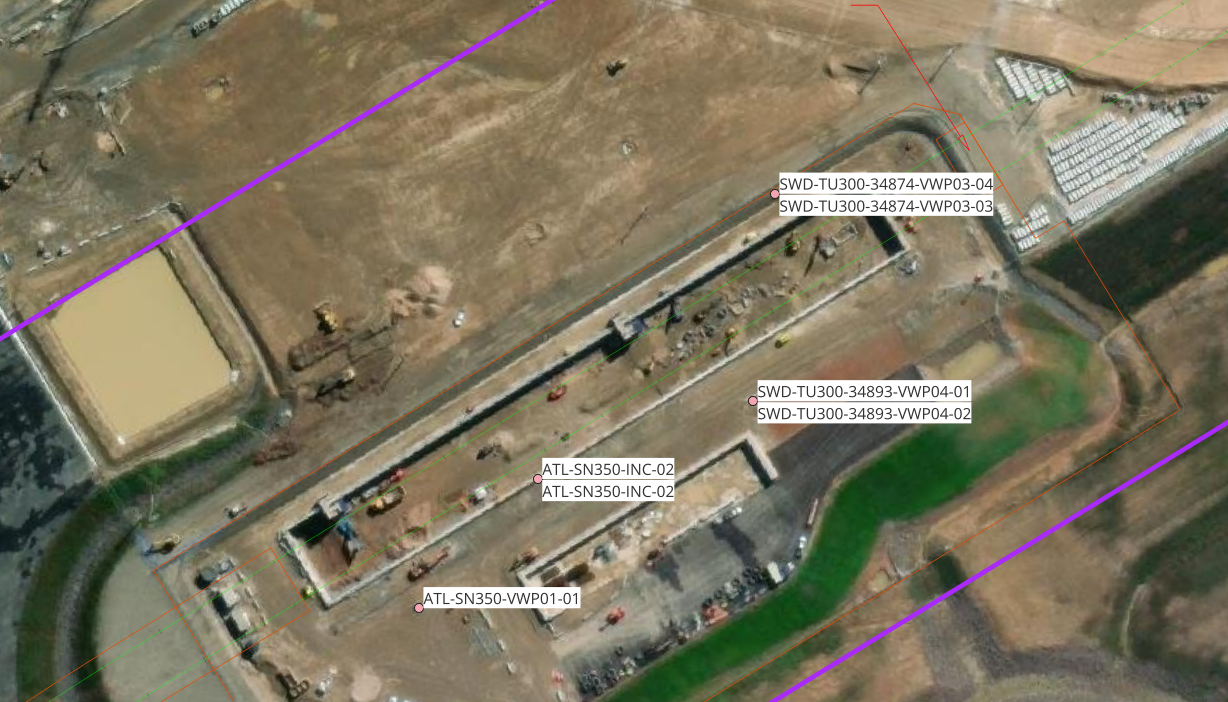
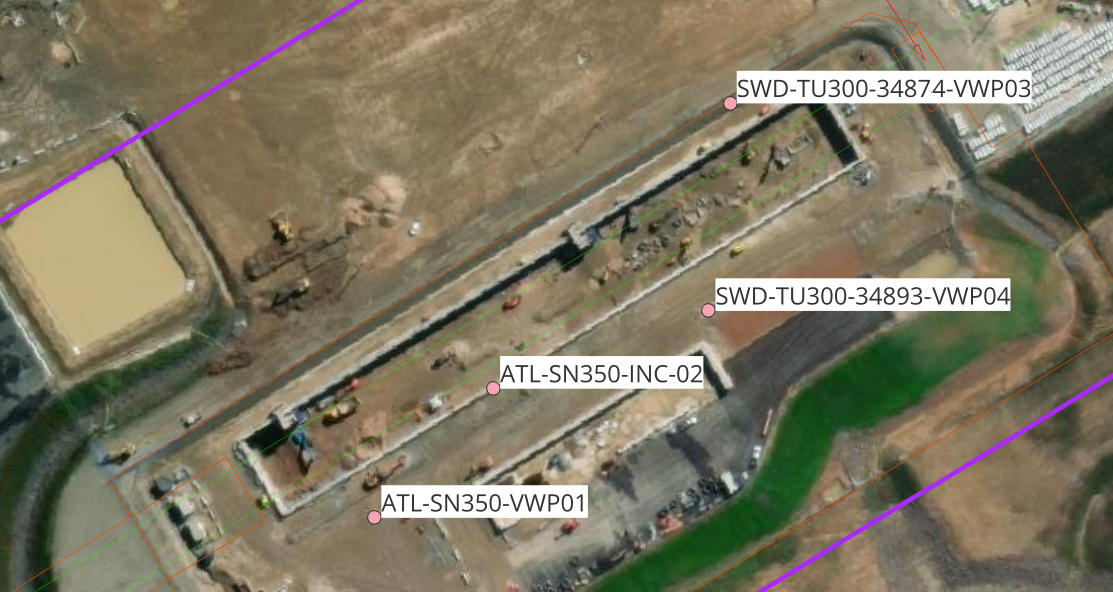
Update images and point IDs; add per-point comment fields and remove general comment field

diff --git a/index.html b/index.html
@@ -100,6 +100,11 @@
   display: flex;
   gap: 15px;
  }
+ input[type="text"] {
+  width: 100%;
+  padding: 4px 6px;
+  box-sizing: border-box;
+ }
 </style>
 </head>
 <body>
@@ -114,18 +119,19 @@
   <label for="date">Date</label>
   <input type="date" id="date" name="date" required>
 
-  <!-- Area sections -->
+  <!-- AEC section -->
   <details>
    <summary>AEC</summary>
    <img src="AEC.png" alt="AEC area" class="area-img">
    <table>
-    <tr><th>Point</th><th>Status</th></tr>
+    <tr><th>Point</th><th>Status</th><th>Comments</th></tr>
     <tr>
      <td>AEC-BTM-SN450-INC-09</td>
      <td class="radio-group">
       <label><input type="radio" name="AEC-BTM-SN450-INC-09" value="Read"> Read</label>
       <label><input type="radio" name="AEC-BTM-SN450-INC-09" value="Not Read" checked> Not Read</label>
      </td>
+     <td><input type="text" name="AEC-BTM-SN450-INC-09-comment" placeholder="Comment"></td>
     </tr>
     <tr>
      <td>AEC-BTM-SN450-INC-03</td>
@@ -133,6 +139,7 @@
       <label><input type="radio" name="AEC-BTM-SN450-INC-03" value="Read"> Read</label>
       <label><input type="radio" name="AEC-BTM-SN450-INC-03" value="Not Read" checked> Not Read</label>
      </td>
+     <td><input type="text" name="AEC-BTM-SN450-INC-03-comment" placeholder="Comment"></td>
     </tr>
     <tr>
      <td>SWD-TU400-39287-VWP01</td>
@@ -140,6 +147,7 @@
       <label><input type="radio" name="SWD-TU400-39287-VWP01" value="Read"> Read</label>
       <label><input type="radio" name="SWD-TU400-39287-VWP01" value="Not Read" checked> Not Read</label>
      </td>
+     <td><input type="text" name="SWD-TU400-39287-VWP01-comment" placeholder="Comment"></td>
     </tr>
     <tr>
      <td>SWD-TU400-39340-VWP02</td>
@@ -147,6 +155,7 @@
       <label><input type="radio" name="SWD-TU400-39340-VWP02" value="Read"> Read</label>
       <label><input type="radio" name="SWD-TU400-39340-VWP02" value="Not Read" checked> Not Read</label>
      </td>
+     <td><input type="text" name="SWD-TU400-39340-VWP02-comment" placeholder="Comment"></td>
     </tr>
     <tr>
      <td>SWD-TU400-39532-VWP03</td>
@@ -154,6 +163,7 @@
       <label><input type="radio" name="SWD-TU400-39532-VWP03" value="Read"> Read</label>
       <label><input type="radio" name="SWD-TU400-39532-VWP03" value="Not Read" checked> Not Read</label>
      </td>
+     <td><input type="text" name="SWD-TU400-39532-VWP03-comment" placeholder="Comment"></td>
     </tr>
     <tr>
      <td>AEC-SN450-WW-VWP06</td>
@@ -161,6 +171,7 @@
       <label><input type="radio" name="AEC-SN450-WW-VWP06" value="Read"> Read</label>
       <label><input type="radio" name="AEC-SN450-WW-VWP06" value="Not Read" checked> Not Read</label>
      </td>
+     <td><input type="text" name="AEC-SN450-WW-VWP06-comment" placeholder="Comment"></td>
     </tr>
     <tr>
      <td>AEC-SN450-INC-06</td>
@@ -168,21 +179,24 @@
       <label><input type="radio" name="AEC-SN450-INC-06" value="Read"> Read</label>
       <label><input type="radio" name="AEC-SN450-INC-06" value="Not Read" checked> Not Read</label>
      </td>
+     <td><input type="text" name="AEC-SN450-INC-06-comment" placeholder="Comment"></td>
     </tr>
    </table>
   </details>
 
+  <!-- APDS section -->
   <details>
    <summary>APDS</summary>
    <img src="APDS.png" alt="APDS area" class="area-img">
    <table>
-    <tr><th>Point</th><th>Status</th></tr>
+    <tr><th>Point</th><th>Status</th><th>Comments</th></tr>
     <tr>
      <td>ABP-TD300-VWP01</td>
      <td class="radio-group">
       <label><input type="radio" name="ABP-TD300-VWP01" value="Read"> Read</label>
       <label><input type="radio" name="ABP-TD300-VWP01" value="Not Read" checked> Not Read</label>
      </td>
+     <td><input type="text" name="ABP-TD300-VWP01-comment" placeholder="Comment"></td>
     </tr>
     <tr>
      <td>ABP-TD300-VWP02</td>
@@ -190,6 +204,7 @@
       <label><input type="radio" name="ABP-TD300-VWP02" value="Read"> Read</label>
       <label><input type="radio" name="ABP-TD300-VWP02" value="Not Read" checked> Not Read</label>
      </td>
+     <td><input type="text" name="ABP-TD300-VWP02-comment" placeholder="Comment"></td>
     </tr>
     <tr>
      <td>ABP-TD300-VWP03</td>
@@ -197,6 +212,7 @@
       <label><input type="radio" name="ABP-TD300-VWP03" value="Read"> Read</label>
       <label><input type="radio" name="ABP-TD300-VWP03" value="Not Read" checked> Not Read</label>
      </td>
+     <td><input type="text" name="ABP-TD300-VWP03-comment" placeholder="Comment"></td>
     </tr>
     <tr>
      <td>ABP-TD300-VWP04</td>
@@ -204,42 +220,32 @@
       <label><input type="radio" name="ABP-TD300-VWP04" value="Read"> Read</label>
       <label><input type="radio" name="ABP-TD300-VWP04" value="Not Read" checked> Not Read</label>
      </td>
+     <td><input type="text" name="ABP-TD300-VWP04-comment" placeholder="Comment"></td>
     </tr>
    </table>
   </details>
 
+  <!-- ATL section updated -->
   <details>
    <summary>ATL</summary>
    <img src="ATL.png" alt="ATL area" class="area-img">
    <table>
-    <tr><th>Point</th><th>Status</th></tr>
+    <tr><th>Point</th><th>Status</th><th>Comments</th></tr>
     <tr>
-     <td>SWD-TU300-34874-VWP03-04</td>
+     <td>SWD-TU300-34874-VWP03</td>
      <td class="radio-group">
-      <label><input type="radio" name="SWD-TU300-34874-VWP03-04" value="Read"> Read</label>
-      <label><input type="radio" name="SWD-TU300-34874-VWP03-04" value="Not Read" checked> Not Read</label>
+      <label><input type="radio" name="SWD-TU300-34874-VWP03" value="Read"> Read</label>
+      <label><input type="radio" name="SWD-TU300-34874-VWP03" value="Not Read" checked> Not Read</label>
      </td>
+     <td><input type="text" name="SWD-TU300-34874-VWP03-comment" placeholder="Comment"></td>
     </tr>
     <tr>
-     <td>SWD-TU300-34874-VWP03-03</td>
+     <td>SWD-TU300-34893-VWP04</td>
      <td class="radio-group">
-      <label><input type="radio" name="SWD-TU300-34874-VWP03-03" value="Read"> Read</label>
-      <label><input type="radio" name="SWD-TU300-34874-VWP03-03" value="Not Read" checked> Not Read</label>
+      <label><input type="radio" name="SWD-TU300-34893-VWP04" value="Read"> Read</label>
+      <label><input type="radio" name="SWD-TU300-34893-VWP04" value="Not Read" checked> Not Read</label>
      </td>
-    </tr>
-    <tr>
-     <td>SWD-TU300-34893-VWP04-01</td>
-     <td class="radio-group">
-      <label><input type="radio" name="SWD-TU300-34893-VWP04-01" value="Read"> Read</label>
-      <label><input type="radio" name="SWD-TU300-34893-VWP04-01" value="Not Read" checked> Not Read</label>
-     </td>
-    </tr>
-    <tr>
-     <td>SWD-TU300-34893-VWP04-02</td>
-     <td class="radio-group">
-      <label><input type="radio" name="SWD-TU300-34893-VWP04-02" value="Read"> Read</label>
-      <label><input type="radio" name="SWD-TU300-34893-VWP04-02" value="Not Read" checked> Not Read</label>
-     </td>
+     <td><input type="text" name="SWD-TU300-34893-VWP04-comment" placeholder="Comment"></td>
     </tr>
     <tr>
      <td>ATL-SN350-INC-02</td>
@@ -247,28 +253,32 @@
       <label><input type="radio" name="ATL-SN350-INC-02" value="Read"> Read</label>
       <label><input type="radio" name="ATL-SN350-INC-02" value="Not Read" checked> Not Read</label>
      </td>
+     <td><input type="text" name="ATL-SN350-INC-02-comment" placeholder="Comment"></td>
     </tr>
     <tr>
-     <td>ATL-SN350-VWP01-01</td>
+     <td>ATL-SN350-VWP01</td>
      <td class="radio-group">
-      <label><input type="radio" name="ATL-SN350-VWP01-01" value="Read"> Read</label>
-      <label><input type="radio" name="ATL-SN350-VWP01-01" value="Not Read" checked> Not Read</label>
+      <label><input type="radio" name="ATL-SN350-VWP01" value="Read"> Read</label>
+      <label><input type="radio" name="ATL-SN350-VWP01" value="Not Read" checked> Not Read</label>
      </td>
+     <td><input type="text" name="ATL-SN350-VWP01-comment" placeholder="Comment"></td>
     </tr>
    </table>
   </details>
 
+  <!-- STM section updated -->
   <details>
    <summary>STM</summary>
    <img src="STM.png" alt="STM area" class="area-img">
    <table>
-    <tr><th>Point</th><th>Status</th></tr>
+    <tr><th>Point</th><th>Status</th><th>Comments</th></tr>
     <tr>
      <td>SWD-TU100-17700-INC04</td>
      <td class="radio-group">
       <label><input type="radio" name="SWD-TU100-17700-INC04" value="Read"> Read</label>
       <label><input type="radio" name="SWD-TU100-17700-INC04" value="Not Read" checked> Not Read</label>
      </td>
+     <td><input type="text" name="SWD-TU100-17700-INC04-comment" placeholder="Comment"></td>
     </tr>
     <tr>
      <td>SWD-TU100-17720-VWP04</td>
@@ -276,6 +286,7 @@
       <label><input type="radio" name="SWD-TU100-17720-VWP04" value="Read"> Read</label>
       <label><input type="radio" name="SWD-TU100-17720-VWP04" value="Not Read" checked> Not Read</label>
      </td>
+     <td><input type="text" name="SWD-TU100-17720-VWP04-comment" placeholder="Comment"></td>
     </tr>
     <tr>
      <td>STM-SN100-INC-13</td>
@@ -283,13 +294,7 @@
       <label><input type="radio" name="STM-SN100-INC-13" value="Read"> Read</label>
       <label><input type="radio" name="STM-SN100-INC-13" value="Not Read" checked> Not Read</label>
      </td>
-    </tr>
-    <tr>
-     <td>STM-SN100-INC-02</td>
-     <td class="radio-group">
-      <label><input type="radio" name="STM-SN100-INC-02" value="Read"> Read</label>
-      <label><input type="radio" name="STM-SN100-INC-02" value="Not Read" checked> Not Read</label>
-     </td>
+     <td><input type="text" name="STM-SN100-INC-13-comment" placeholder="Comment"></td>
     </tr>
     <tr>
      <td>STM-SN100-INC-06</td>
@@ -297,13 +302,15 @@
       <label><input type="radio" name="STM-SN100-INC-06" value="Read"> Read</label>
       <label><input type="radio" name="STM-SN100-INC-06" value="Not Read" checked> Not Read</label>
      </td>
+     <td><input type="text" name="STM-SN100-INC-06-comment" placeholder="Comment"></td>
     </tr>
     <tr>
-     <td>STM-SN100-INC-11</td>
+     <td>STM-SN100-INC-02</td>
      <td class="radio-group">
-      <label><input type="radio" name="STM-SN100-INC-11" value="Read"> Read</label>
-      <label><input type="radio" name="STM-SN100-INC-11" value="Not Read" checked> Not Read</label>
+      <label><input type="radio" name="STM-SN100-INC-02" value="Read"> Read</label>
+      <label><input type="radio" name="STM-SN100-INC-02" value="Not Read" checked> Not Read</label>
      </td>
+     <td><input type="text" name="STM-SN100-INC-02-comment" placeholder="Comment"></td>
     </tr>
     <tr>
      <td>STM-SN100-INC-12</td>
@@ -311,56 +318,64 @@
       <label><input type="radio" name="STM-SN100-INC-12" value="Read"> Read</label>
       <label><input type="radio" name="STM-SN100-INC-12" value="Not Read" checked> Not Read</label>
      </td>
+     <td><input type="text" name="STM-SN100-INC-12-comment" placeholder="Comment"></td>
     </tr>
     <tr>
-     <td>SWD-TU100-17275-VWP01-A</td>
+     <td>STM-SN100-INC-08</td>
      <td class="radio-group">
-      <label><input type="radio" name="SWD-TU100-17275-VWP01-A" value="Read"> Read</label>
-      <label><input type="radio" name="SWD-TU100-17275-VWP01-A" value="Not Read" checked> Not Read</label>
+      <label><input type="radio" name="STM-SN100-INC-08" value="Read"> Read</label>
+      <label><input type="radio" name="STM-SN100-INC-08" value="Not Read" checked> Not Read</label>
      </td>
+     <td><input type="text" name="STM-SN100-INC-08-comment" placeholder="Comment"></td>
     </tr>
     <tr>
-     <td>SWD-TU100-17275-VWP01-B</td>
+     <td>STM-SN100-INC-11</td>
      <td class="radio-group">
-      <label><input type="radio" name="SWD-TU100-17275-VWP01-B" value="Read"> Read</label>
-      <label><input type="radio" name="SWD-TU100-17275-VWP01-B" value="Not Read" checked> Not Read</label>
+      <label><input type="radio" name="STM-SN100-INC-11" value="Read"> Read</label>
+      <label><input type="radio" name="STM-SN100-INC-11" value="Not Read" checked> Not Read</label>
      </td>
+     <td><input type="text" name="STM-SN100-INC-11-comment" placeholder="Comment"></td>
     </tr>
     <tr>
-     <td>SWD-TU100-17443-VWP03-A</td>
+     <td>SWD-TU100-17443-VWP03</td>
      <td class="radio-group">
-      <label><input type="radio" name="SWD-TU100-17443-VWP03-A" value="Read"> Read</label>
-      <label><input type="radio" name="SWD-TU100-17443-VWP03-A" value="Not Read" checked> Not Read</label>
+      <label><input type="radio" name="SWD-TU100-17443-VWP03" value="Read"> Read</label>
+      <label><input type="radio" name="SWD-TU100-17443-VWP03" value="Not Read" checked> Not Read</label>
      </td>
+     <td><input type="text" name="SWD-TU100-17443-VWP03-comment" placeholder="Comment"></td>
     </tr>
     <tr>
-     <td>SWD-TU100-17443-VWP03-B</td>
+     <td>SWD-TU100-17275-VWP01</td>
      <td class="radio-group">
-      <label><input type="radio" name="SWD-TU100-17443-VWP03-B" value="Read"> Read</label>
-      <label><input type="radio" name="SWD-TU100-17443-VWP03-B" value="Not Read" checked> Not Read</label>
+      <label><input type="radio" name="SWD-TU100-17275-VWP01" value="Read"> Read</label>
+      <label><input type="radio" name="SWD-TU100-17275-VWP01" value="Not Read" checked> Not Read</label>
      </td>
+     <td><input type="text" name="SWD-TU100-17275-VWP01-comment" placeholder="Comment"></td>
     </tr>
    </table>
   </details>
 
+  <!-- OHE section updated -->
   <details>
    <summary>OHE</summary>
    <img src="OHE.png" alt="OHE area" class="area-img">
    <table>
-    <tr><th>Point</th><th>Status</th></tr>
+    <tr><th>Point</th><th>Status</th><th>Comments</th></tr>
     <tr>
-     <td>SWD-TU150-22193-VWP05-A</td>
+     <td>SWD-TU150-22010-VWP02</td>
      <td class="radio-group">
-      <label><input type="radio" name="SWD-TU150-22193-VWP05-A" value="Read"> Read</label>
-      <label><input type="radio" name="SWD-TU150-22193-VWP05-A" value="Not Read" checked> Not Read</label>
+      <label><input type="radio" name="SWD-TU150-22010-VWP02" value="Read"> Read</label>
+      <label><input type="radio" name="SWD-TU150-22010-VWP02" value="Not Read" checked> Not Read</label>
      </td>
+     <td><input type="text" name="SWD-TU150-22010-VWP02-comment" placeholder="Comment"></td>
     </tr>
     <tr>
-     <td>SWD-TU150-22193-VWP05-B</td>
+     <td>SWD-TU150-22193-VWP05</td>
      <td class="radio-group">
-      <label><input type="radio" name="SWD-TU150-22193-VWP05-B" value="Read"> Read</label>
-      <label><input type="radio" name="SWD-TU150-22193-VWP05-B" value="Not Read" checked> Not Read</label>
+      <label><input type="radio" name="SWD-TU150-22193-VWP05" value="Read"> Read</label>
+      <label><input type="radio" name="SWD-TU150-22193-VWP05" value="Not Read" checked> Not Read</label>
      </td>
+     <td><input type="text" name="SWD-TU150-22193-VWP05-comment" placeholder="Comment"></td>
     </tr>
     <tr>
      <td>SWD-TU150-22205-VWP06</td>
@@ -368,6 +383,7 @@
       <label><input type="radio" name="SWD-TU150-22205-VWP06" value="Read"> Read</label>
       <label><input type="radio" name="SWD-TU150-22205-VWP06" value="Not Read" checked> Not Read</label>
      </td>
+     <td><input type="text" name="SWD-TU150-22205-VWP06-comment" placeholder="Comment"></td>
     </tr>
     <tr>
      <td>SWD-TU150-22333-VWP07</td>
@@ -375,12 +391,11 @@
       <label><input type="radio" name="SWD-TU150-22333-VWP07" value="Read"> Read</label>
       <label><input type="radio" name="SWD-TU150-22333-VWP07" value="Not Read" checked> Not Read</label>
      </td>
+     <td><input type="text" name="SWD-TU150-22333-VWP07-comment" placeholder="Comment"></td>
     </tr>
    </table>
   </details>
 
-  <label for="comments">Comments</label>
-  <textarea id="comments" name="comments" placeholder="Enter any additional notes or observations…"></textarea>
   <label for="image">Attach Image (optional)</label>
   <input type="file" id="image" name="image" accept="image/*">
   <button type="submit">Submit</button>
